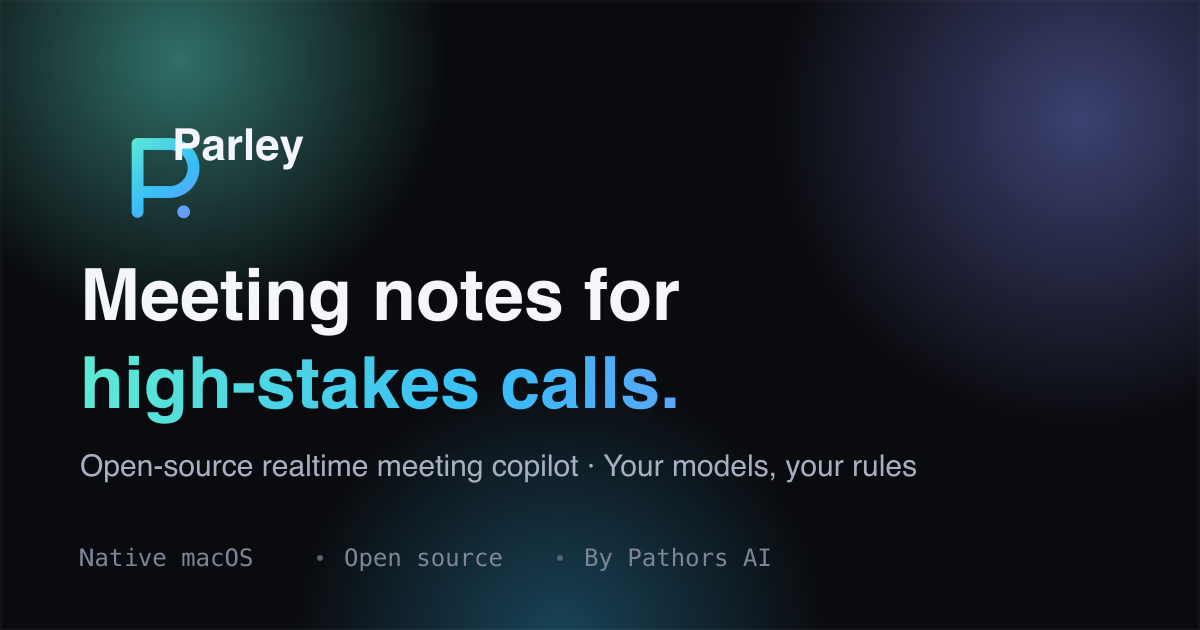
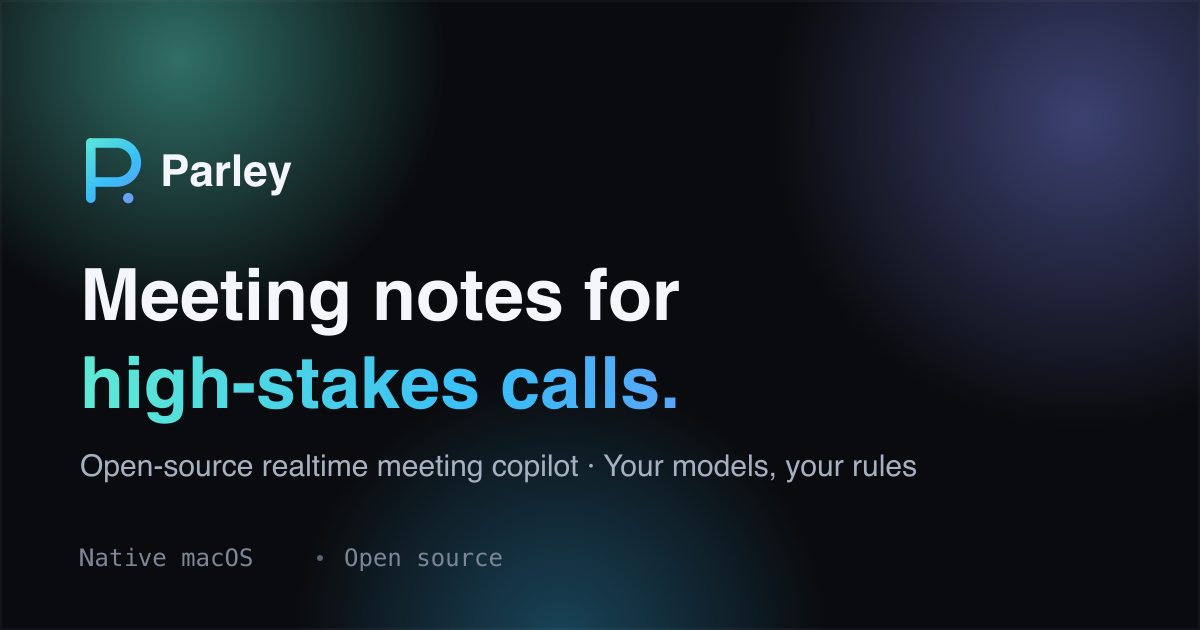
[fix] center workflow step cards and refine OG image branding (#103)
Steps grid was pinned to the left on wide viewports because .steps'
margin:0 overrode the .section--alt > * auto-centering at equal
specificity. Also shrinks and left-aligns the OG logo mark to match
the headline margin, and trims the OG footer to Native macOS / Open
source only.

Changed region(s): [[0.0617, 0.2111, 0.2775, 0.3619], [0.4625, 0.8746, 0.6475, 0.9048]]

diff --git a/website/styles.css b/website/styles.css
@@ -372,7 +372,7 @@ img { max-width: 100%; display: block; }
 
 /* ---------- Steps ---------- */
 .steps {
-  list-style: none; padding: 0; margin: 0;
+  list-style: none; padding: 0; margin: 0 auto;
   display: grid; grid-template-columns: repeat(3, 1fr); gap: 18px;
   counter-reset: step;
 }